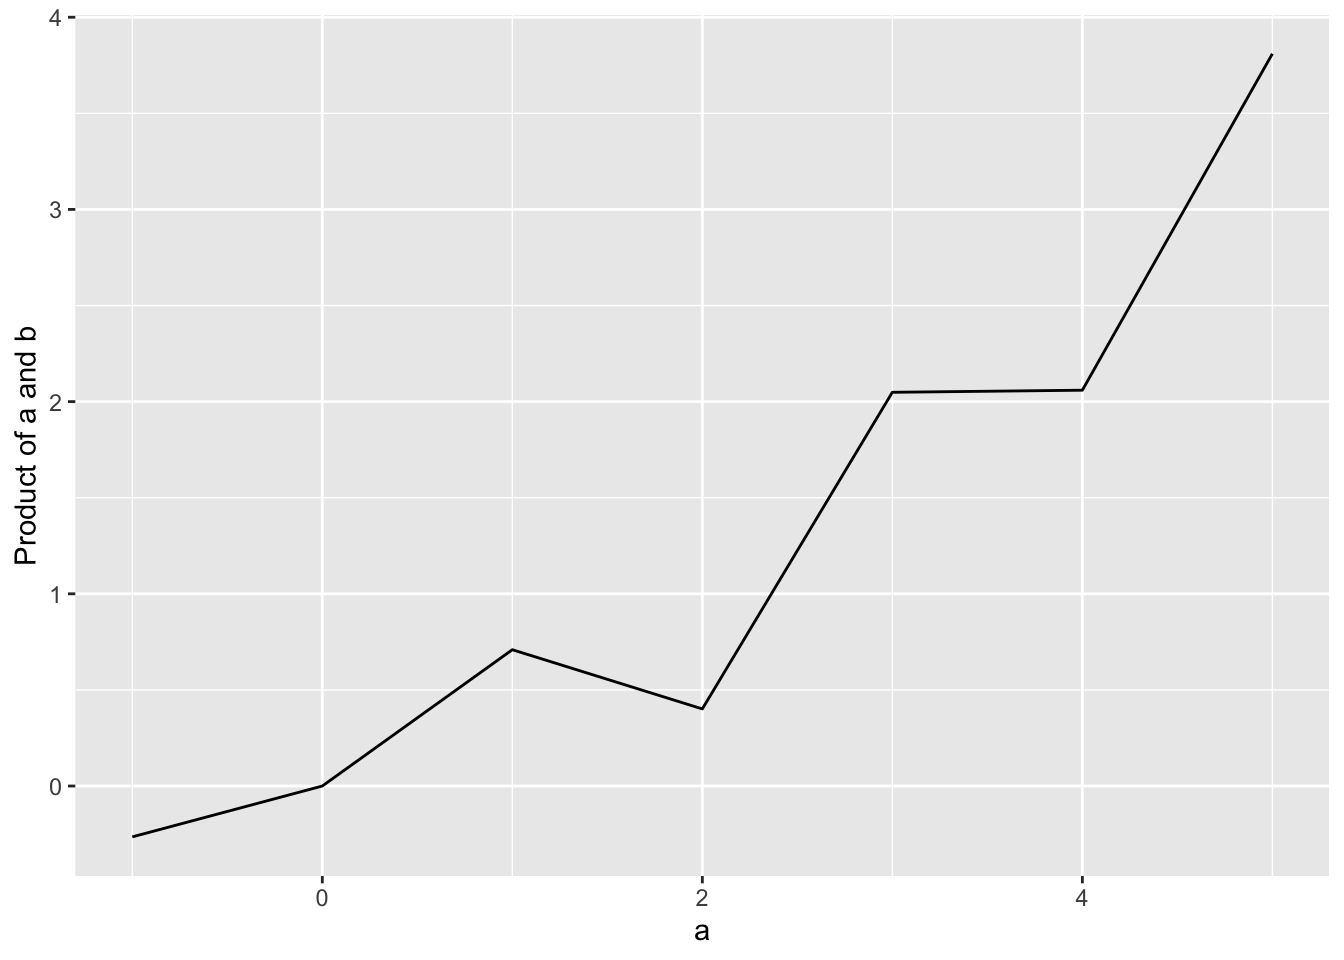
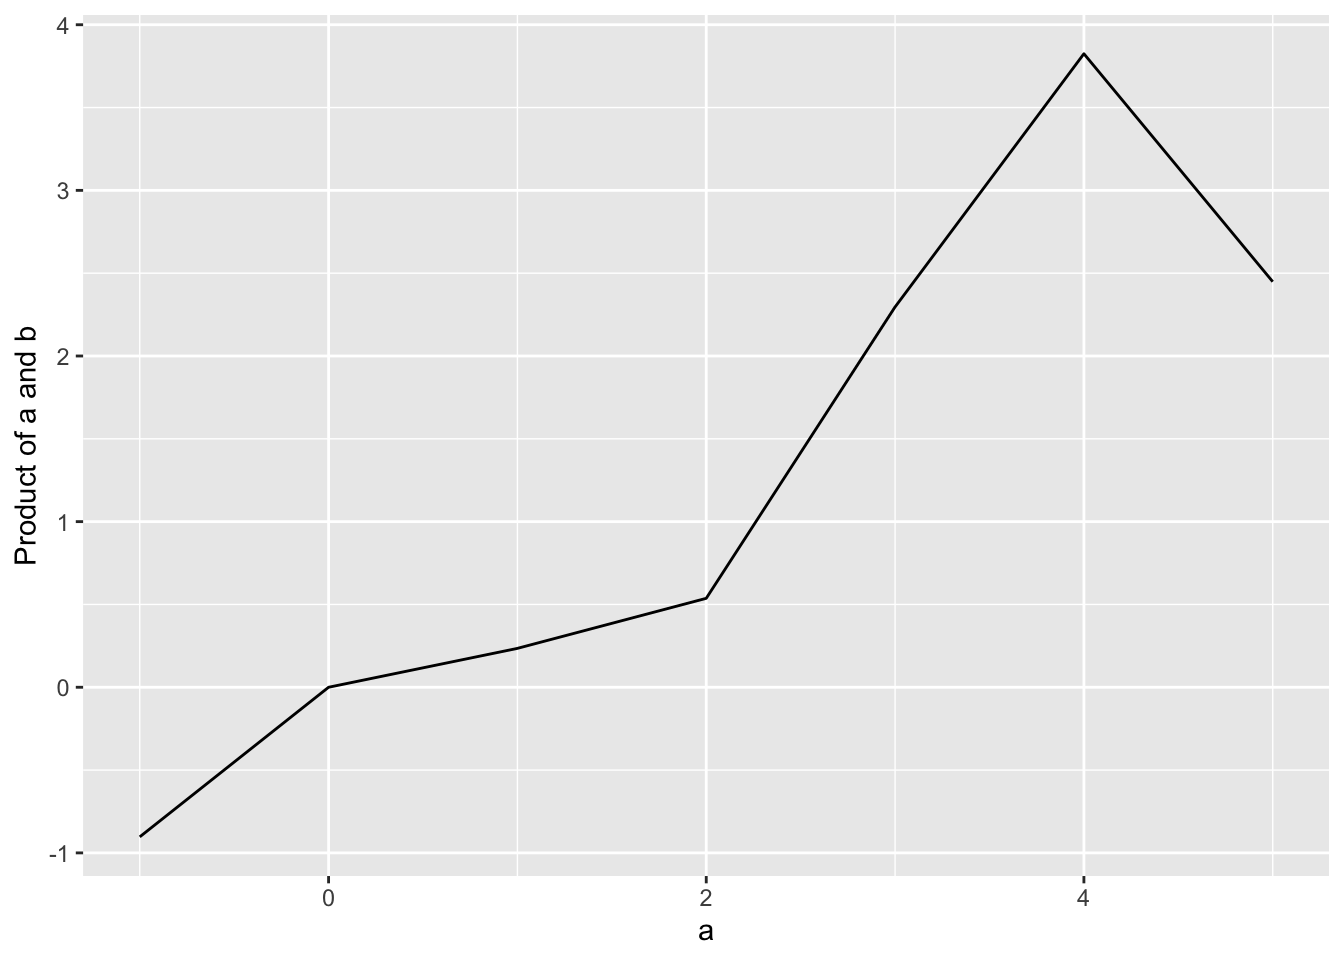
update ch 3

diff --git a/docs/01-computer-setup.html b/docs/01-computer-setup.html
@@ -670,7 +670,7 @@ window.Quarto = {
 <div class="code-copy-outer-scaffold"><div class="sourceCode cell-code" id="cb16"><pre class="sourceCode r code-with-copy"><code class="sourceCode r"><span id="cb16-1"><a href="#cb16-1" aria-hidden="true" tabindex="-1"></a>b <span class="ot">&lt;-</span> <span class="fu">runif</span>(<span class="dv">7</span>, <span class="at">min=</span><span class="dv">0</span>, <span class="at">max=</span><span class="dv">1</span>)</span>
 <span id="cb16-2"><a href="#cb16-2" aria-hidden="true" tabindex="-1"></a>b</span></code></pre></div><button title="Copy to Clipboard" class="code-copy-button"><i class="bi"></i></button></div>
 <div class="cell-output cell-output-stdout">
-<pre><code>[1] 0.2645754 0.5513640 0.7092297 0.2005955 0.6828500 0.5148882 0.7619810</code></pre>
+<pre><code>[1] 0.90326753 0.09441894 0.23484819 0.26855885 0.76534881 0.95617811 0.48972049</code></pre>
 </div>
 </div>
 <p>These will differ every time you do this.</p>
@@ -685,11 +685,11 @@ window.Quarto = {
 </div>
 <div class="code-copy-outer-scaffold"><div class="sourceCode cell-code" id="cb20"><pre class="sourceCode r code-with-copy"><code class="sourceCode r"><span id="cb20-1"><a href="#cb20-1" aria-hidden="true" tabindex="-1"></a>b</span></code></pre></div><button title="Copy to Clipboard" class="code-copy-button"><i class="bi"></i></button></div>
 <div class="cell-output cell-output-stdout">
-<pre><code>[1] 0.2645754 0.5513640 0.7092297 0.2005955 0.6828500 0.5148882 0.7619810</code></pre>
+<pre><code>[1] 0.90326753 0.09441894 0.23484819 0.26855885 0.76534881 0.95617811 0.48972049</code></pre>
 </div>
 <div class="code-copy-outer-scaffold"><div class="sourceCode cell-code" id="cb22"><pre class="sourceCode r code-with-copy"><code class="sourceCode r"><span id="cb22-1"><a href="#cb22-1" aria-hidden="true" tabindex="-1"></a>ab</span></code></pre></div><button title="Copy to Clipboard" class="code-copy-button"><i class="bi"></i></button></div>
 <div class="cell-output cell-output-stdout">
-<pre><code>[1] -0.2645754  0.0000000  0.7092297  0.4011909  2.0485499  2.0595526  3.8099052</code></pre>
+<pre><code>[1] -0.9032675  0.0000000  0.2348482  0.5371177  2.2960464  3.8247124  2.4486025</code></pre>
 </div>
 </div>
 <p>You can confirm at a glance that the first and second elements in <code>a</code> times the first and second elements in <code>b</code> equal the first and second elements in <code>ab</code>.</p>
@@ -702,14 +702,14 @@ window.Quarto = {
 <div class="code-copy-outer-scaffold"><div class="sourceCode cell-code" id="cb24"><pre class="sourceCode r code-with-copy"><code class="sourceCode r"><span id="cb24-1"><a href="#cb24-1" aria-hidden="true" tabindex="-1"></a>d <span class="ot">&lt;-</span> <span class="fu">data.frame</span>(<span class="at">a=</span>a, <span class="at">b=</span>b, <span class="at">a_times_b =</span> ab)</span>
 <span id="cb24-2"><a href="#cb24-2" aria-hidden="true" tabindex="-1"></a>d</span></code></pre></div><button title="Copy to Clipboard" class="code-copy-button"><i class="bi"></i></button></div>
 <div class="cell-output cell-output-stdout">
-<pre><code>   a         b  a_times_b
-1 -1 0.2645754 -0.2645754
-2  0 0.5513640  0.0000000
-3  1 0.7092297  0.7092297
-4  2 0.2005955  0.4011909
-5  3 0.6828500  2.0485499
-6  4 0.5148882  2.0595526
-7  5 0.7619810  3.8099052</code></pre>
+<pre><code>   a          b  a_times_b
+1 -1 0.90326753 -0.9032675
+2  0 0.09441894  0.0000000
+3  1 0.23484819  0.2348482
+4  2 0.26855885  0.5371177
+5  3 0.76534881  2.2960464
+6  4 0.95617811  3.8247124
+7  5 0.48972049  2.4486025</code></pre>
 </div>
 </div>
 <p>You could examine the structure of this data frame with <code>str()</code>.</p>
@@ -718,8 +718,8 @@ window.Quarto = {
 <div class="cell-output cell-output-stdout">
 <pre><code>'data.frame':   7 obs. of  3 variables:
  $ a        : int  -1 0 1 2 3 4 5
- $ b        : num  0.265 0.551 0.709 0.201 0.683 ...
- $ a_times_b: num  -0.265 0 0.709 0.401 2.049 ...</code></pre>
+ $ b        : num  0.9033 0.0944 0.2348 0.2686 0.7653 ...
+ $ a_times_b: num  -0.903 0 0.235 0.537 2.296 ...</code></pre>
 </div>
 </div>
 <p>You will also notice now that you can see all of our objects in the Environment pane, in the upper right of RStudio.</p>

diff --git a/docs/02-global_temp_anomalies.html b/docs/02-global_temp_anomalies.html
@@ -297,12 +297,11 @@ gtag('config', 'G-J0R6F7XN66', { 'anonymize_ip': true});
 <h2 data-number="3.1" class="anchored" data-anchor-id="goals"><span class="header-section-number">3.1</span> Goals</h2>
 <p>In this assignment, you will</p>
 <ul>
-<li><p>Learn about the history of our perspective on global warming.</p></li>
-<li><p>Use R to display estimates of global temperature anomalies.</p></li>
-<li><p>Describe the current temperature trajectory.</p></li>
-<li><p>Compare and contrast changes in temperature between humans and Earth.</p></li>
-<li><p>Video lecture on global warming and climate change: TBA</p></li>
-<li><p>Background reading: Hansen et al.&nbsp;(2012). Perception of climate change. *Proceedings of teh National Academy of Sciences, U.S.A.</p></li>
+<li>Learn about the history of our perspective on global warming.</li>
+<li>Use R to display estimates of global temperature anomalies.</li>
+<li>Describe the current temperature trajectory.</li>
+<li>Compare and contrast changes in temperature between humans and Earth.</li>
+<li>Background reading: Hansen et al.&nbsp;(2012). Perception of climate change. *Proceedings of the National Academy of Sciences, U.S.A.</li>
 </ul>
 </section>
 <section id="background" class="level2" data-number="3.2">
